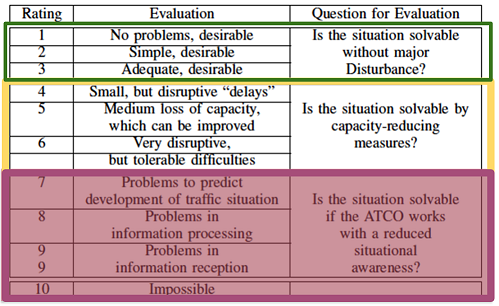
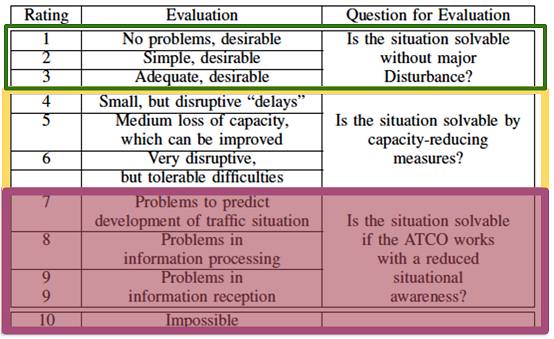
minor

diff --git a/static/css/main.css b/static/css/main.css
@@ -3,7 +3,7 @@ body {
 }
 
 img.screen_height {
-  height: 90%;
+  height: 100%;
   width: auto;
 }
 
